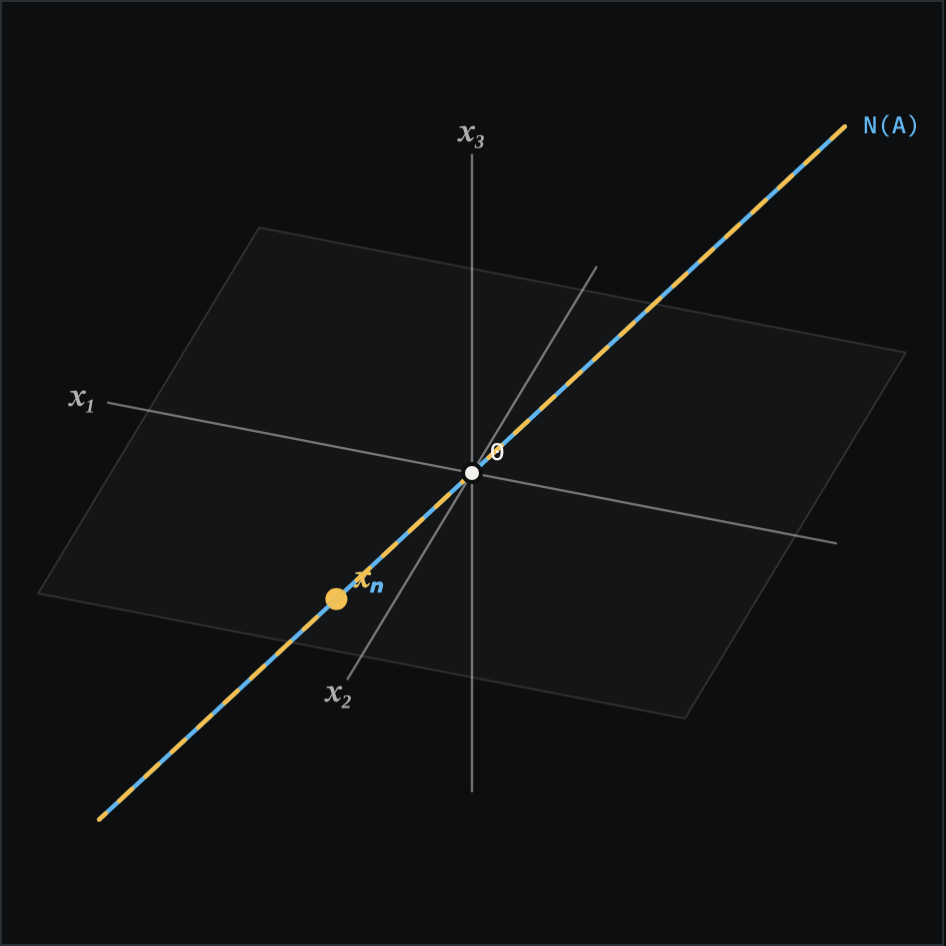
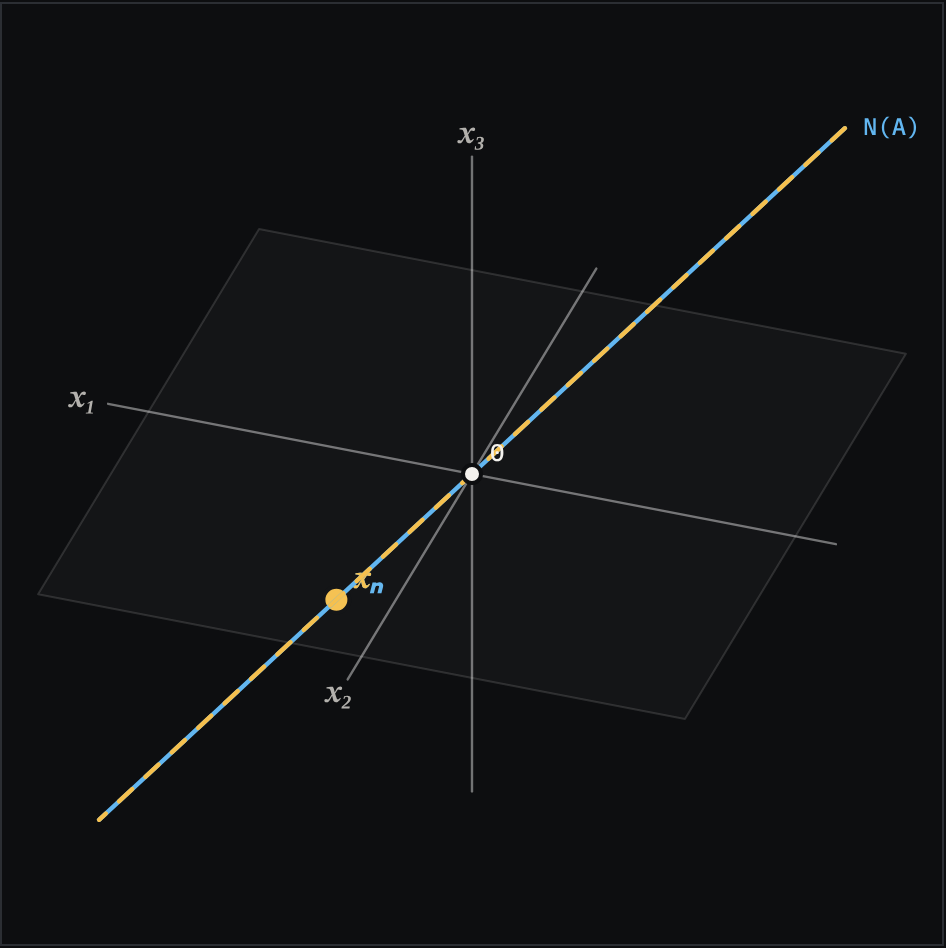
Lecture 6: column space and nullspace, reviewed
Four labs (union and intersection, is b in C(A), the redundant arm's
self-motion, solutions as a shifted nullspace), ten practice problems,
notes, code and 14 figures. Lab pictures no longer stretch to the
height of their side panel.

Claude-Session: https://claude.ai/code/session_01MNiRuGGX6DPK7yN1sBv5UZ

diff --git a/assets/css/mit.css b/assets/css/mit.css
@@ -614,3 +614,6 @@ a.card:hover p { color: #b9b6b3; }
 .quiz .tag.robot { border-color: var(--accent-ink); color: var(--accent-ink); }
 .quiz .a .eq { justify-content: flex-start; padding: .3em 0; flex-wrap: wrap; row-gap: .6em; }
 .quiz .a ol, .quiz .a ul { display: grid; gap: 6px; }
+
+/* a lab picture keeps its own height instead of stretching to the side panel */
+.lab-main > .lab-stage { align-self: start; }
